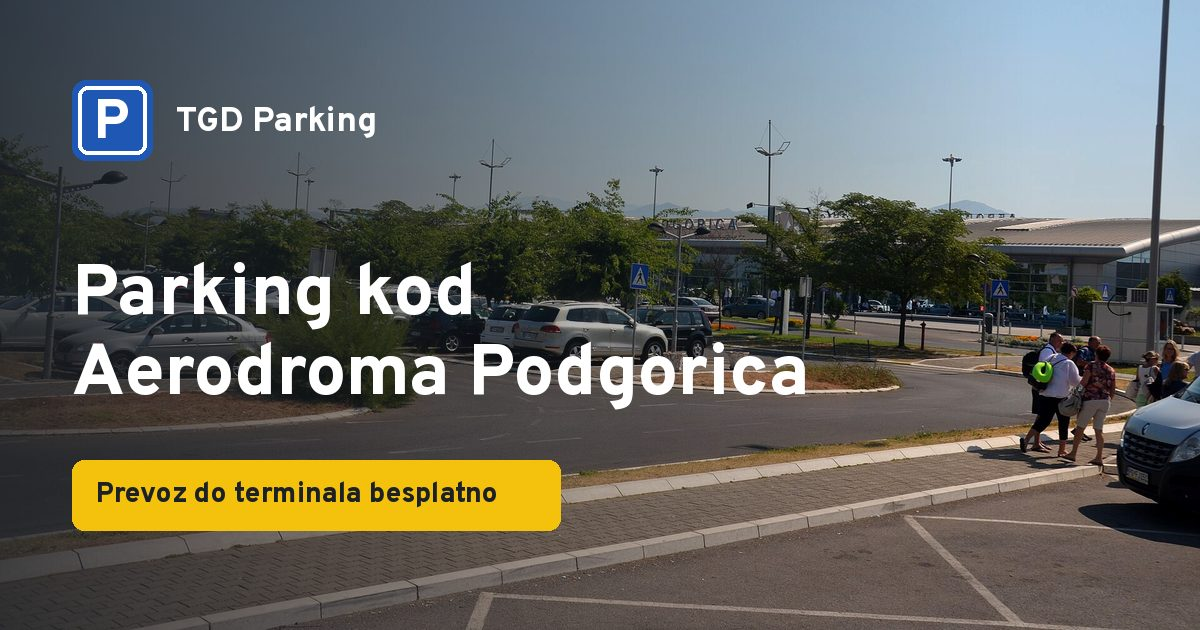
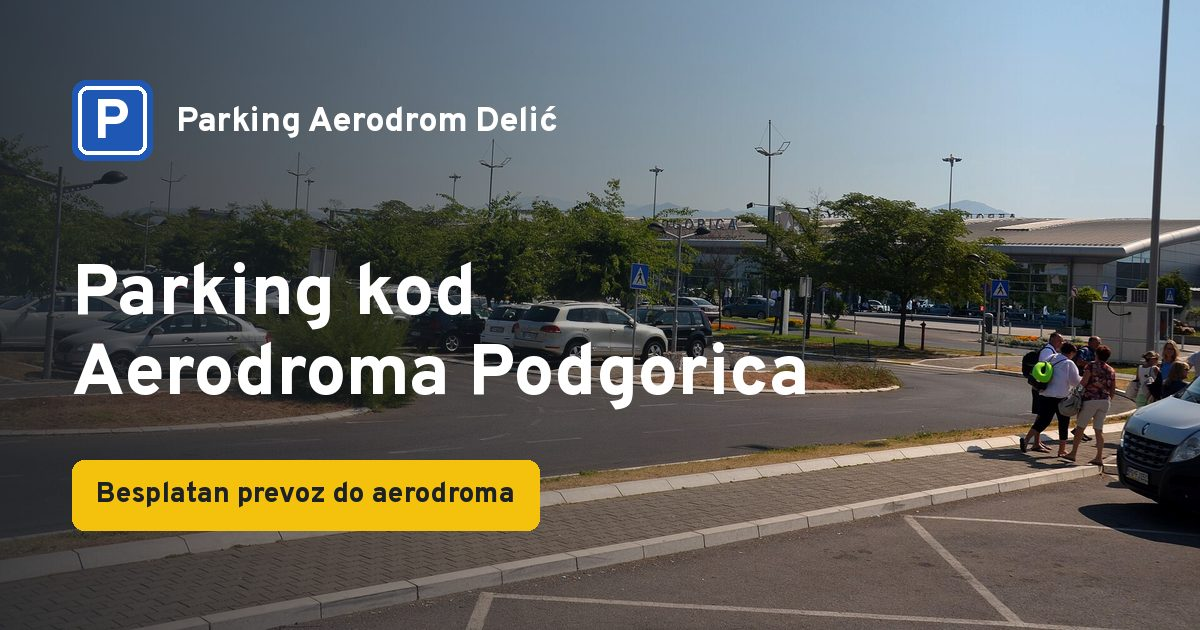
feat: parking demo with the client's name, prices and services
Parking Aerodrom Delić: 3 € per 24 h, 7 days 21 €, a month by agreement,
free airport shuttle both ways, video surveillance, apartment for an
overnight stay, cash payment. Claims the client did not confirm removed.

Claude-Session: https://claude.ai/code/session_01JN5qs93u3UbDJPJhuseMAe

Changed region(s): [[0.0617, 0.7238, 0.4933, 0.8444], [0.1233, 0.1508, 0.4625, 0.2111]]

diff --git a/demo/parking-aerodrom/index.html b/demo/parking-aerodrom/index.html
@@ -3,12 +3,12 @@
 <head>
 <meta charset="utf-8">
 <meta name="viewport" content="width=device-width, initial-scale=1, viewport-fit=cover">
-<title>TGD Parking · Parking kod Aerodroma Podgorica</title>
-<meta name="description" content="Parking kod Aerodroma Podgorica, otvoren 0–24. Besplatan prevoz do terminala i nazad. Rezervacija preko WhatsApp-a.">
+<title>Parking Aerodrom Delić · Parking kod Aerodroma Podgorica</title>
+<meta name="description" content="Parking kod Aerodroma Podgorica: 3 € za 24 sata, besplatan prevoz do aerodroma i nazad, video nadzor. Rezervacija preko WhatsApp-a.">
 <meta name="robots" content="noindex, nofollow">
 <meta name="theme-color" content="#1C2127">
-<meta property="og:title" content="TGD Parking · Parking kod Aerodroma Podgorica">
-<meta property="og:description" content="Ostavite auto kod nas, a do terminala vas vozimo besplatno.">
+<meta property="og:title" content="Parking Aerodrom Delić · Parking kod Aerodroma Podgorica">
+<meta property="og:description" content="3 € za 24 sata. Do aerodroma i nazad vozimo vas besplatno.">
 <meta property="og:image" content="https://makesitefor.me/demo/parking-aerodrom/img/og.jpg">
 <meta property="og:image:width" content="1200">
 <meta property="og:image:height" content="630">
@@ -19,7 +19,7 @@
 <link rel="preconnect" href="https://fonts.googleapis.com"><link rel="preconnect" href="https://fonts.gstatic.com" crossorigin>
 <link href="https://fonts.googleapis.com/css2?family=Overpass:wght@400;600;800&display=swap" rel="stylesheet">
 <link rel="preload" as="image" href="./img/hero-m.jpg" media="(max-width: 959px)">
-<link rel="stylesheet" href="./style.css?v=1">
+<link rel="stylesheet" href="./style.css?v=2">
 </head>
 <body>
 <svg width="0" height="0" style="position:absolute" aria-hidden="true">
@@ -31,18 +31,19 @@
   <symbol id="i-tag" viewBox="0 0 24 24"><path d="M3.5 12.2V4.5a1 1 0 011-1h7.7l8.3 8.3a1.2 1.2 0 010 1.7l-6.6 6.6a1.2 1.2 0 01-1.7 0z" fill="none" stroke="currentColor" stroke-width="1.8" stroke-linejoin="round"/><circle cx="8" cy="8" r="1.5" fill="currentColor"/></symbol>
   <symbol id="i-check" viewBox="0 0 24 24"><path d="M5 12.5l4.2 4.2L19 7" fill="none" stroke="currentColor" stroke-width="2.2" stroke-linecap="round" stroke-linejoin="round"/></symbol>
   <symbol id="i-plane" viewBox="0 0 24 24"><path d="M10.5 13.5L3 11l1.2-1.6 7.8.6 4.8-5a2 2 0 013 2.8l-5 4.8.6 7.8-1.6 1.2-2.5-7.5-3.4 3.2.3 2.5-1.2 1-1.6-3.4-3.4-1.6 1-1.2 2.5.3z" fill="none" stroke="currentColor" stroke-width="1.6" stroke-linejoin="round"/></symbol>
+  <symbol id="i-cam" viewBox="0 0 24 24"><path d="M3.5 7.5h10a1.5 1.5 0 011.5 1.5v6a1.5 1.5 0 01-1.5 1.5h-10A1.5 1.5 0 012 15V9a1.5 1.5 0 011.5-1.5zM15 11l5.5-3v8L15 13" fill="none" stroke="currentColor" stroke-width="1.8" stroke-linejoin="round"/></symbol>
   <symbol id="i-plus" viewBox="0 0 24 24"><path d="M12 5v14M5 12h14" fill="none" stroke="currentColor" stroke-width="2" stroke-linecap="round"/></symbol>
 </svg>
 
 <div class="demo" role="note">
-  <span data-i18n="demo">Demo koncept sajta, izradio</span> <a href="https://makesitefor.me/" translate="no">MakeSiteFor.me</a>. <span data-i18n="demo2">Naziv, cijene, tekstovi i fotografije su primjer.</span>
+  <span data-i18n="demo">Demo koncept sajta, izradio</span> <a href="https://makesitefor.me/" translate="no">MakeSiteFor.me</a>. <span data-i18n="demo2">Fotografije su za sada primjer.</span>
 </div>
 
 <header class="top">
   <div class="wrap top-in">
-    <a class="brand" href="./" aria-label="TGD Parking" translate="no">
+    <a class="brand" href="./" aria-label="Parking Aerodrom Delić" translate="no">
       <span class="sign" aria-hidden="true">P</span>
-      <span class="brand-t"><b>TGD Parking</b><small data-i18n="brand_sub">Aerodrom Podgorica</small></span>
+      <span class="brand-t"><b>Parking Delić</b><small data-i18n="brand_sub">Aerodrom Podgorica</small></span>
     </a>
     <nav class="nav" aria-label="Meni">
       <a href="#cijene" data-i18n="nav_prices">Cijene</a>
@@ -66,11 +67,11 @@
   <div class="wrap hero-in">
     <div class="hero-txt">
       <h1 id="h1" data-i18n="h1">Parking kod Aerodroma Podgorica</h1>
-      <p class="lead" data-i18n="lead">Ostavite auto kod nas, a do terminala vas vozimo besplatno.</p>
+      <p class="lead" data-i18n="lead">Ostavite auto kod nas, a do aerodroma i nazad vozimo vas besplatno.</p>
       <ul class="facts">
-        <li><svg aria-hidden="true"><use href="#i-clock"/></svg><span data-i18n="f_open">Otvoreno 0–24</span></li>
-        <li><svg aria-hidden="true"><use href="#i-van"/></svg><span data-i18n="f_term">3 min do terminala</span></li>
-        <li><svg aria-hidden="true"><use href="#i-tag"/></svg><span data-i18n="f_price">od 3,00&nbsp;€ dnevno</span></li>
+        <li><svg aria-hidden="true"><use href="#i-tag"/></svg><span data-i18n="f_price">3,00&nbsp;€ za 24 sata</span></li>
+        <li><svg aria-hidden="true"><use href="#i-van"/></svg><span data-i18n="f_term">Besplatan prevoz do aerodroma</span></li>
+        <li><svg aria-hidden="true"><use href="#i-cam"/></svg><span data-i18n="f_cam">Video nadzor</span></li>
       </ul>
       <div class="hero-btns">
         <a class="btn btn-y js-wa" href="https://wa.me/38269457717" target="_blank" rel="noopener"><svg aria-hidden="true"><use href="#i-wa"/></svg><span data-i18n="btn_wa">Rezerviši na WhatsApp</span></a>
@@ -111,8 +112,8 @@
           <p><span data-i18n="t_days">Broj dana</span><b id="o-days">7</b></p>
           <p><span data-i18n="t_price">Cijena</span><b id="o-price">25,00&nbsp;€</b></p>
         </div>
-        <p class="t-note" data-i18n="t_note">Prevoz do terminala i nazad je uključen.</p>
-        <button class="btn btn-d" type="submit"><svg aria-hidden="true"><use href="#i-wa"/></svg><span data-i18n="t_send">Pošalji rezervaciju na WhatsApp</span></button>
+        <p class="t-note" data-i18n="t_note">Prevoz do aerodroma i nazad je besplatan.</p>
+        <button class="btn btn-d" type="submit"><svg aria-hidden="true"><use href="#i-wa"/></svg><span data-i18n="t_send">Rezerviši na WhatsApp</span></button>
         <p class="t-alt"><span data-i18n="t_alt">Radije zovete?</span> <a href="tel:+38269457717" translate="no">+382 69 457 717</a></p>
       </div>
     </form>
@@ -122,22 +123,22 @@
 <section class="sec how" id="kako" aria-labelledby="h-how">
   <div class="wrap">
     <h2 id="h-how" data-i18n="how_h">Kako radi</h2>
-    <p class="sec-lead" data-i18n="how_lead">Od parkinga do aviona za nekoliko minuta, bez traženja mjesta ispred terminala.</p>
+    <p class="sec-lead" data-i18n="how_lead">Ostavite auto kod nas, a mi vas vozimo do aviona i nazad, bez traženja mjesta ispred terminala.</p>
     <ol class="steps">
       <li>
         <span class="st-n" aria-hidden="true">P</span>
         <h3 data-i18n="s1_h">Dođete na parking</h3>
-        <p data-i18n="s1_p">Parkirate auto na ograđenom prostoru pod video nadzorom.</p>
+        <p data-i18n="s1_p">Ostavite auto na parkingu pod video nadzorom.</p>
       </li>
       <li>
         <span class="st-n" aria-hidden="true"><svg><use href="#i-plane"/></svg></span>
-        <h3 data-i18n="s2_h">Vozimo vas do terminala</h3>
-        <p data-i18n="s2_p">Naš kombi vas sa prtljagom vozi do ulaza za oko 3 minuta.</p>
+        <h3 data-i18n="s2_h">Vozimo vas do aerodroma</h3>
+        <p data-i18n="s2_p">Prevoz do terminala je besplatan.</p>
       </li>
       <li>
         <span class="st-n" aria-hidden="true">P</span>
         <h3 data-i18n="s3_h">Po povratku nas pozovite</h3>
-        <p data-i18n="s3_p">Kad sletite, javite se. Čekamo vas ispred izlaza i vozimo do auta.</p>
+        <p data-i18n="s3_p">Kad sletite, javite se i besplatno vas vozimo do auta.</p>
       </li>
     </ol>
   </div>
@@ -147,21 +148,20 @@
   <div class="wrap pr-grid">
     <div>
       <h2 id="h-pr" data-i18n="pr_h">Cijene</h2>
-      <p class="sec-lead" data-i18n="pr_lead">Jedna cijena za cijeli boravak, sa prevozom do terminala i nazad za sve putnike.</p>
+      <p class="sec-lead" data-i18n="pr_lead">3 € za svaka 24 sata, sa besplatnim prevozom do aerodroma i nazad.</p>
       <table class="ptable">
         <caption class="sr" data-i18n="pr_cap">Cijene parkinga po broju dana</caption>
-        <tbody id="ptable"><tr><th scope="row">1 dan</th><td>5,00&nbsp;€</td></tr><tr><th scope="row">3 dana</th><td>12,00&nbsp;€</td></tr><tr><th scope="row">7 dana</th><td>25,00&nbsp;€</td></tr><tr><th scope="row">14 dana</th><td>46,00&nbsp;€</td></tr><tr><th scope="row">Svaki dan preko 7</th><td>3,00&nbsp;€</td></tr></tbody>
+        <tbody id="ptable"><tr><th scope="row">24 sata</th><td>3,00&nbsp;€</td></tr><tr><th scope="row">7 dana</th><td>21,00&nbsp;€</td></tr><tr><th scope="row">Mjesec dana</th><td>Po dogovoru</td></tr></tbody>
       </table>
-      <p class="pr-more" data-i18n="pr_more">Ostavljate auto na mjesec ili duže? Pišite nam i dogovorićemo cijenu.</p>
+      <p class="pr-more" data-i18n="pr_more">Ostavljate auto na mjesec dana ili duže? Pišite nam i dogovorićemo cijenu.</p>
     </div>
     <div class="incl">
-      <h3 data-i18n="in_h">Uključeno u cijenu</h3>
+      <h3 data-i18n="in_h">Šta dobijate</h3>
       <ul>
-        <li><svg aria-hidden="true"><use href="#i-check"/></svg><span data-i18n="in1">Prevoz do terminala i nazad</span></li>
-        <li><svg aria-hidden="true"><use href="#i-check"/></svg><span data-i18n="in2">Video nadzor 0–24</span></li>
-        <li><svg aria-hidden="true"><use href="#i-check"/></svg><span data-i18n="in3">Ograđen i osvijetljen prostor</span></li>
-        <li><svg aria-hidden="true"><use href="#i-check"/></svg><span data-i18n="in4">Ključ ostaje kod vas</span></li>
-        <li><svg aria-hidden="true"><use href="#i-check"/></svg><span data-i18n="in5">Čekamo vas i kad let kasni</span></li>
+        <li><svg aria-hidden="true"><use href="#i-check"/></svg><span data-i18n="in1">Besplatan prevoz do aerodroma i nazad</span></li>
+        <li><svg aria-hidden="true"><use href="#i-check"/></svg><span data-i18n="in2">Video nadzor</span></li>
+        <li><svg aria-hidden="true"><use href="#i-check"/></svg><span data-i18n="in3">Mogućnost noćenja u apartmanu</span></li>
+        <li><svg aria-hidden="true"><use href="#i-check"/></svg><span data-i18n="in4">Plaćanje gotovinom</span></li>
       </ul>
       <a class="btn btn-d js-book" href="#ticket"><span data-i18n="pr_btn">Izračunaj cijenu</span></a>
     </div>
@@ -173,12 +173,11 @@
     <div class="wh-txt">
       <h2 id="h-wh" data-i18n="wh_h">Gdje smo</h2>
       <ul class="wh-list">
-        <li><svg aria-hidden="true"><use href="#i-pin"/></svg><span data-i18n="wh_addr">Golubovci, 1,5 km od Aerodroma Podgorica</span></li>
-        <li><svg aria-hidden="true"><use href="#i-clock"/></svg><span data-i18n="wh_hours">Otvoreno 0–24, svaki dan</span></li>
+        <li><svg aria-hidden="true"><use href="#i-pin"/></svg><span data-i18n="wh_addr">47 ulica, Podgorica, kod Aerodroma</span></li>
         <li><svg aria-hidden="true"><use href="#i-phone"/></svg><a href="tel:+38269457717" translate="no">+382 69 457 717</a></li>
       </ul>
       <div class="wh-btns">
-        <a class="btn btn-d" href="https://maps.google.com/?q=42.3594,19.2519" target="_blank" rel="noopener"><svg aria-hidden="true"><use href="#i-pin"/></svg><span data-i18n="wh_map">Otvori u Google mapama</span></a>
+        <a class="btn btn-d" href="https://www.google.com/maps/search/?api=1&amp;query=PrakingAerodromDelic%2C%20Podgorica" target="_blank" rel="noopener"><svg aria-hidden="true"><use href="#i-pin"/></svg><span data-i18n="wh_map">Otvori u Google mapama</span></a>
         <a class="btn btn-o js-wa" href="https://wa.me/38269457717" target="_blank" rel="noopener"><svg aria-hidden="true"><use href="#i-wa"/></svg><span>WhatsApp</span></a>
       </div>
       <picture class="wh-photo">
@@ -187,7 +186,7 @@
       </picture>
     </div>
     <div class="map">
-      <iframe title="Mapa: Aerodrom Podgorica" data-i18n-title="map_title" src="https://maps.google.com/maps?q=42.3594,19.2519&amp;z=13&amp;output=embed" loading="lazy" referrerpolicy="no-referrer-when-downgrade"></iframe>
+      <iframe title="Mapa: Parking Aerodrom Delić" data-i18n-title="map_title" src="https://maps.google.com/maps?q=PrakingAerodromDelic%2C%20Podgorica&amp;z=14&amp;output=embed" loading="lazy" referrerpolicy="no-referrer-when-downgrade"></iframe>
     </div>
   </div>
 </section>
@@ -195,10 +194,10 @@
 <section class="sec faq" aria-labelledby="h-faq">
   <div class="wrap faq-in">
     <h2 id="h-faq" data-i18n="faq_h">Pitanja</h2>
-    <details><summary data-i18n="q1">Moram li unaprijed rezervisati?</summary><p data-i18n="a1">Nije obavezno, ali sa rezervacijom vam čuvamo mjesto i znamo kada da vas čekamo.</p></details>
-    <details><summary data-i18n="q2">Šta ako mi let kasni?</summary><p data-i18n="a2">Kad sletite, samo nas pozovite. Čekamo vas bez doplate.</p></details>
-    <details><summary data-i18n="q3">Kako se plaća?</summary><p data-i18n="a3">Na parkingu, gotovinom ili karticom.</p></details>
-    <details><summary data-i18n="q4">Koliko ljudi i prtljaga staje u kombi?</summary><p data-i18n="a4">Do 8 putnika sa koferima. Za veću grupu javite nam unaprijed.</p></details>
+    <details><summary data-i18n="q1">Kako da rezervišem mjesto?</summary><p data-i18n="a1">Pišite nam na WhatsApp ili pozovite i recite kada dolazite i kada se vraćate.</p></details>
+    <details><summary data-i18n="q2">Kako se plaća?</summary><p data-i18n="a2">Gotovinom.</p></details>
+    <details><summary data-i18n="q3">Koliko košta mjesec dana?</summary><p data-i18n="a3">Cijenu za mjesec dana dogovaramo. Pišite nam na WhatsApp.</p></details>
+    <details><summary data-i18n="q4">Mogu li prenoćiti prije ranog leta?</summary><p data-i18n="a4">Da, kod nas možete prenoćiti u apartmanu. Pišite nam za slobodne termine i cijenu.</p></details>
   </div>
 </section>
 </main>
@@ -206,9 +205,8 @@
 <footer class="foot">
   <div class="wrap foot-in">
     <div>
-      <p class="brand brand-f" translate="no"><span class="sign" aria-hidden="true">P</span><b>TGD Parking</b></p>
-      <p data-i18n="wh_addr">Golubovci, 1,5 km od Aerodroma Podgorica</p>
-      <p data-i18n="wh_hours">Otvoreno 0–24, svaki dan</p>
+      <p class="brand brand-f" translate="no"><span class="sign" aria-hidden="true">P</span><b>Parking Aerodrom Delić</b></p>
+      <p data-i18n="wh_addr">47 ulica, Podgorica, kod Aerodroma</p>
     </div>
     <div class="foot-c">
       <a href="tel:+38269457717"><svg aria-hidden="true"><use href="#i-phone"/></svg><span translate="no">+382 69 457 717</span></a>
@@ -223,6 +221,6 @@
   <a class="bar-wa js-wa" href="https://wa.me/38269457717" target="_blank" rel="noopener"><svg aria-hidden="true"><use href="#i-wa"/></svg><span>WhatsApp</span></a>
 </nav>
 
-<script src="./app.js?v=1"></script>
+<script src="./app.js?v=2"></script>
 </body>
 </html>

diff --git a/demo/parking-aerodrom/app.js b/demo/parking-aerodrom/app.js
@@ -1,78 +1,77 @@
 (function () {
   "use strict";
   var WA = "38269457717";
-  // Example tariff until the client sends theirs: total price for 1..7 days, then +3 € per day.
-  var TABLE = [5, 9, 12, 15, 18, 21, 25];
-  var EXTRA = 3;
-  function priceFor(days) {
-    if (days <= TABLE.length) return TABLE[days - 1];
-    return TABLE[TABLE.length - 1] + (days - TABLE.length) * EXTRA;
-  }
+  // Client's tariff (2026-11-18): 3 € per started 24 h; a month or more is agreed by phone.
+  var DAY = 3;
+  var MONTH_DAYS = 30;
+  function priceFor(days) { return days >= MONTH_DAYS ? null : days * DAY; }
 
   var T = {
     me: {
-      demo: "Demo koncept sajta, izradio", demo2: "Naziv, cijene, tekstovi i fotografije su primjer.",
+      demo: "Demo koncept sajta, izradio", demo2: "Fotografije su za sada primjer.",
       brand_sub: "Aerodrom Podgorica", nav_prices: "Cijene", nav_how: "Kako radi", nav_where: "Lokacija",
       call_aria: "Pozovite nas", bar_aria: "Brzi kontakt",
       h1: "Parking kod Aerodroma Podgorica",
-      lead: "Ostavite auto kod nas, a do terminala vas vozimo besplatno.",
-      f_open: "Otvoreno 0–24", f_term: "3 min do terminala", f_price: "od {p} dnevno",
+      lead: "Ostavite auto kod nas, a do aerodroma i nazad vozimo vas besplatno.",
+      f_price: "{p} za 24 sata", f_term: "Besplatan prevoz do aerodroma", f_cam: "Video nadzor",
       btn_wa: "Rezerviši na WhatsApp", btn_call: "Pozovi",
       hero_alt: "Parkirani automobili kod Aerodroma Podgorica",
       t_title: "Koliko košta?", t_in: "Ostavljate auto", t_out: "Preuzimate auto", t_date: "Datum", t_time: "Vrijeme",
       t_err: "Preuzimanje mora biti poslije dolaska.", t_pax: "Putnika", t_plate: "Tablice", t_opt: "(nije obavezno)",
-      t_days: "Broj dana", t_price: "Cijena", t_note: "Prevoz do terminala i nazad je uključen.",
-      t_send: "Pošalji rezervaciju na WhatsApp", t_sending: "Otvaramo WhatsApp…", t_alt: "Radije zovete?",
-      how_h: "Kako radi", how_lead: "Od parkinga do aviona za nekoliko minuta, bez traženja mjesta ispred terminala.",
-      s1_h: "Dođete na parking", s1_p: "Parkirate auto na ograđenom prostoru pod video nadzorom.",
-      s2_h: "Vozimo vas do terminala", s2_p: "Naš kombi vas sa prtljagom vozi do ulaza za oko 3 minuta.",
-      s3_h: "Po povratku nas pozovite", s3_p: "Kad sletite, javite se. Čekamo vas ispred izlaza i vozimo do auta.",
-      pr_h: "Cijene", pr_lead: "Jedna cijena za cijeli boravak, sa prevozom do terminala i nazad za sve putnike.",
-      pr_cap: "Cijene parkinga po broju dana", pr_more: "Ostavljate auto na mjesec ili duže? Pišite nam i dogovorićemo cijenu.",
-      day1: "1 dan", dayN: "{n} dana", extra: "Svaki dan preko 7",
-      in_h: "Uključeno u cijenu", in1: "Prevoz do terminala i nazad", in2: "Video nadzor 0–24", in3: "Ograđen i osvijetljen prostor",
-      in4: "Ključ ostaje kod vas", in5: "Čekamo vas i kad let kasni", pr_btn: "Izračunaj cijenu",
-      wh_h: "Gdje smo", wh_addr: "Golubovci, 1,5 km od Aerodroma Podgorica", wh_hours: "Otvoreno 0–24, svaki dan",
-      wh_map: "Otvori u Google mapama", term_alt: "Terminal Aerodroma Podgorica", map_title: "Mapa: Aerodrom Podgorica",
+      t_days: "Broj dana", t_price: "Cijena", t_note: "Prevoz do aerodroma i nazad je besplatan.",
+      t_month: "Po dogovoru",
+      t_send: "Rezerviši na WhatsApp", t_sending: "Otvaramo WhatsApp…", t_alt: "Radije zovete?",
+      how_h: "Kako radi", how_lead: "Ostavite auto kod nas, a mi vas vozimo do aviona i nazad, bez traženja mjesta ispred terminala.",
+      s1_h: "Dođete na parking", s1_p: "Ostavite auto na parkingu pod video nadzorom.",
+      s2_h: "Vozimo vas do aerodroma", s2_p: "Prevoz do terminala je besplatan.",
+      s3_h: "Po povratku nas pozovite", s3_p: "Kad sletite, javite se i besplatno vas vozimo do auta.",
+      pr_h: "Cijene", pr_lead: "3 € za svaka 24 sata, sa besplatnim prevozom do aerodroma i nazad.",
+      pr_cap: "Cijene parkinga", pr_more: "Ostavljate auto na mjesec dana ili duže? Pišite nam i dogovorićemo cijenu.",
+      r_day: "24 sata", r_week: "7 dana", r_month: "Mjesec dana",
+      in_h: "Šta dobijate", in1: "Besplatan prevoz do aerodroma i nazad", in2: "Video nadzor", in3: "Mogućnost noćenja u apartmanu",
+      in4: "Plaćanje gotovinom", pr_btn: "Izračunaj cijenu",
+      wh_h: "Gdje smo", wh_addr: "47 ulica, Podgorica, kod Aerodroma",
+      wh_map: "Otvori u Google mapama", term_alt: "Terminal Aerodroma Podgorica", map_title: "Mapa: Parking Aerodrom Delić",
       faq_h: "Pitanja",
-      q1: "Moram li unaprijed rezervisati?", a1: "Nije obavezno, ali sa rezervacijom vam čuvamo mjesto i znamo kada da vas čekamo.",
-      q2: "Šta ako mi let kasni?", a2: "Kad sletite, samo nas pozovite. Čekamo vas bez doplate.",
-      q3: "Kako se plaća?", a3: "Na parkingu, gotovinom ili karticom.",
-      q4: "Koliko ljudi i prtljaga staje u kombi?", a4: "Do 8 putnika sa koferima. Za veću grupu javite nam unaprijed.",
+      q1: "Kako da rezervišem mjesto?", a1: "Pišite nam na WhatsApp ili pozovite i recite kada dolazite i kada se vraćate.",
+      q2: "Kako se plaća?", a2: "Gotovinom.",
+      q3: "Koliko košta mjesec dana?", a3: "Cijenu za mjesec dana dogovaramo. Pišite nam na WhatsApp.",
+      q4: "Mogu li prenoćiti prije ranog leta?", a4: "Da, kod nas možete prenoćiti u apartmanu. Pišite nam za slobodne termine i cijenu.",
       credits: "Fotografije (primjer):", made: "Sajt:",
       wa_hi: "Zdravo! Zanima me parking kod aerodroma.",
       wa_book: "Zdravo! Želim da rezervišem parking.", wa_in: "Ostavljam auto", wa_out: "Preuzimam auto", wa_at: "u",
       wa_days: "Broj dana", wa_pax: "Putnika", wa_plate: "Tablice", wa_price: "Cijena sa sajta"
     },
     en: {
-      demo: "Website demo concept by", demo2: "The name, prices, texts and photos are examples.",
+      demo: "Website demo concept by", demo2: "Photos are examples for now.",
       brand_sub: "Podgorica Airport", nav_prices: "Prices", nav_how: "How it works", nav_where: "Location",
       call_aria: "Call us", bar_aria: "Quick contact",
       h1: "Parking at Podgorica Airport",
-      lead: "Leave your car with us and we drive you to the terminal for free.",
-      f_open: "Open 24/7", f_term: "3 min to the terminal", f_price: "from {p} a day",
+      lead: "Leave your car with us and we drive you to the airport and back for free.",
+      f_price: "{p} per 24 hours", f_term: "Free airport shuttle", f_cam: "Video surveillance",
       btn_wa: "Book on WhatsApp", btn_call: "Call",
       hero_alt: "Parked cars at Podgorica Airport",
       t_title: "What will it cost?", t_in: "Drop-off", t_out: "Pick-up", t_date: "Date", t_time: "Time",
       t_err: "Pick-up must be after drop-off.", t_pax: "Passengers", t_plate: "Licence plate", t_opt: "(optional)",
-      t_days: "Days", t_price: "Price", t_note: "The shuttle to the terminal and back is included.",
-      t_send: "Send booking on WhatsApp", t_sending: "Opening WhatsApp…", t_alt: "Prefer to call?",
-      how_h: "How it works", how_lead: "From our lot to your flight in minutes, without hunting for a space at the terminal.",
-      s1_h: "Drive in", s1_p: "Park your car in our fenced lot under 24/7 video surveillance.",
-      s2_h: "We drive you to the terminal", s2_p: "Our van takes you and your luggage to the entrance in about 3 minutes.",
-      s3_h: "Call us when you're back", s3_p: "Once you land, give us a call. We meet you outside arrivals and drive you to your car.",
-      pr_h: "Prices", pr_lead: "One price for the whole stay, with the shuttle both ways for all passengers.",
-      pr_cap: "Parking prices by number of days", pr_more: "Leaving the car for a month or longer? Message us and we'll agree a price.",
-      day1: "1 day", dayN: "{n} days", extra: "Each day after 7",
-      in_h: "Included in the price", in1: "Shuttle to the terminal and back", in2: "24/7 video surveillance", in3: "Fenced, well-lit lot",
-      in4: "You keep your keys", in5: "We wait if your flight is late", pr_btn: "Check your price",
-      wh_h: "Where we are", wh_addr: "Golubovci, 1.5 km from Podgorica Airport", wh_hours: "Open 24/7, every day",
-      wh_map: "Open in Google Maps", term_alt: "Podgorica Airport terminal", map_title: "Map: Podgorica Airport",
+      t_days: "Days", t_price: "Price", t_note: "The shuttle to the airport and back is free.",
+      t_month: "By agreement",
+      t_send: "Book on WhatsApp", t_sending: "Opening WhatsApp…", t_alt: "Prefer to call?",
+      how_h: "How it works", how_lead: "Leave your car with us and we drive you to your flight and back, no hunting for a space at the terminal.",
+      s1_h: "Drive in", s1_p: "Leave your car in our lot under video surveillance.",
+      s2_h: "We drive you to the airport", s2_p: "The ride to the terminal is free.",
+      s3_h: "Call us when you're back", s3_p: "Once you land, give us a call and we drive you to your car for free.",
+      pr_h: "Prices", pr_lead: "€3 for every 24 hours, with a free shuttle to the airport and back.",
+      pr_cap: "Parking prices", pr_more: "Leaving the car for a month or longer? Message us and we'll agree a price.",
+      r_day: "24 hours", r_week: "7 days", r_month: "One month",
+      in_h: "What you get", in1: "Free shuttle to the airport and back", in2: "Video surveillance", in3: "Overnight stay in our apartment",
+      in4: "Cash payment", pr_btn: "Check your price",
+      wh_h: "Where we are", wh_addr: "47 ulica, Podgorica, near the airport",
+      wh_map: "Open in Google Maps", term_alt: "Podgorica Airport terminal", map_title: "Map: Parking Aerodrom Delić",
       faq_h: "Questions",
-      q1: "Do I need to book ahead?", a1: "It isn't required, but with a booking we hold a space for you and know when to expect you.",
-      q2: "What if my flight is late?", a2: "Just call us when you land. Waiting is free.",
-      q3: "How do I pay?", a3: "At the parking, in cash or by card.",
-      q4: "How many people and bags fit in the van?", a4: "Up to 8 passengers with suitcases. For a larger group, let us know in advance.",
+      q1: "How do I book a space?", a1: "Message us on WhatsApp or call, and tell us when you arrive and when you fly back.",
+      q2: "How do I pay?", a2: "In cash.",
+      q3: "How much is a month?", a3: "We agree the monthly price with you. Message us on WhatsApp.",
+      q4: "Can I stay overnight before an early flight?", a4: "Yes, you can stay in our apartment. Message us for free dates and the price.",
       credits: "Photos (examples):", made: "Website:",
       wa_hi: "Hello! I'm interested in airport parking.",
       wa_book: "Hello! I'd like to book parking.", wa_in: "Drop-off", wa_out: "Pick-up", wa_at: "at",
@@ -92,13 +91,10 @@
   function read(k) { try { return localStorage.getItem(k); } catch (e) { return null; } }
 
   function renderTable() {
-    var rows = [[1, priceFor(1)], [3, priceFor(3)], [7, priceFor(7)], [14, priceFor(14)]];
-    var html = rows.map(function (r) {
-      var label = r[0] === 1 ? t("day1") : t("dayN").replace("{n}", r[0]);
-      return "<tr><th scope=\"row\">" + label + "</th><td>" + money(r[1]) + "</td></tr>";
+    var rows = [[t("r_day"), money(DAY)], [t("r_week"), money(7 * DAY)], [t("r_month"), t("t_month")]];
+    document.getElementById("ptable").innerHTML = rows.map(function (r) {
+      return "<tr><th scope=\"row\">" + r[0] + "</th><td>" + r[1] + "</td></tr>";
     }).join("");
-    html += "<tr><th scope=\"row\">" + t("extra") + "</th><td>" + money(EXTRA) + "</td></tr>";
-    document.getElementById("ptable").innerHTML = html;
   }
 
   function setLang(l) {
@@ -107,7 +103,7 @@
     document.querySelectorAll("[data-i18n]").forEach(function (el) {
       var k = el.getAttribute("data-i18n");
       var v = t(k);
-      if (k === "f_price") v = v.replace("{p}", money(EXTRA));
+      if (k === "f_price") v = v.replace("{p}", money(DAY));
       el.textContent = v;
     });
     document.querySelectorAll("[data-i18n-alt]").forEach(function (el) { el.alt = t(el.getAttribute("data-i18n-alt")); });
@@ -115,10 +111,10 @@
     document.querySelectorAll("[data-i18n-title]").forEach(function (el) { el.title = t(el.getAttribute("data-i18n-title")); });
     document.querySelectorAll(".lang button").forEach(function (b) { b.setAttribute("aria-pressed", String(b.dataset.lang === lang)); });
     document.querySelectorAll(".js-wa").forEach(function (a) { a.href = waLink(t("wa_hi")); });
-    document.title = lang === "en" ? "TGD Parking · Parking at Podgorica Airport" : "TGD Parking · Parking kod Aerodroma Podgorica";
+    document.title = lang === "en" ? "Parking Aerodrom Delić · Parking at Podgorica Airport" : "Parking Aerodrom Delić · Parking kod Aerodroma Podgorica";
     renderTable();
     calc(false);
-    store("tgd-lang", lang);
+    store("delic-lang", lang);
   }
 
   // ticket
@@ -158,7 +154,8 @@
     var changed = days !== state.days;
     state = { days: days, price: price, ok: true, a: a, b: b };
     oDays.textContent = days;
-    oPrice.textContent = money(price);
+    oPrice.textContent = price === null ? t("t_month") : money(price);
+    oPrice.classList.toggle("t-txt", price === null);
     if (animate && changed) {
       [oDays, oPrice].forEach(function (el) { el.classList.remove("tick"); void el.offsetWidth; el.classList.add("tick"); });
     }
@@ -197,7 +194,7 @@
     ];
     var pl = plate.value.trim();
     if (pl) lines.push(t("wa_plate") + ": " + pl.toUpperCase());
-    lines.push(t("wa_price") + ": " + money(state.price));
+    lines.push(t("wa_price") + ": " + (state.price === null ? t("t_month") : money(state.price)));
     var url = waLink(lines.join("\n"));
     var btn = form.querySelector("button[type=submit] span");
     var label = btn.textContent;
@@ -223,6 +220,6 @@
     }).observe(hb);
   } else document.body.classList.add("past-hero");
 
-  var initial = location.hash === "#en" ? "en" : location.hash === "#me" ? "me" : (read("tgd-lang") || "me");
+  var initial = location.hash === "#en" ? "en" : location.hash === "#me" ? "me" : (read("delic-lang") || "me");
   setLang(initial);
 })();

diff --git a/demo/parking-aerodrom/style.css b/demo/parking-aerodrom/style.css
@@ -107,6 +107,7 @@ input[aria-invalid=true]{border-color:#B42318}
 .t-sum b{font-weight:800;font-size:2.2rem;font-variant-numeric:tabular-nums;letter-spacing:-.02em;margin-top:4px}
 .t-sum p:last-child{justify-self:end;text-align:right}
 .t-sum p:last-child b{font-size:2.6rem}
+.t-sum p:last-child b.t-txt{font-size:1.6rem;padding:.45rem 0 .2rem}
 .t-sum b.tick{animation:tick .35s ease}
 @keyframes tick{from{opacity:.35;transform:translateY(-6px)}to{opacity:1;transform:none}}
 .t-note{font-size:15px;margin:8px 0 14px}
